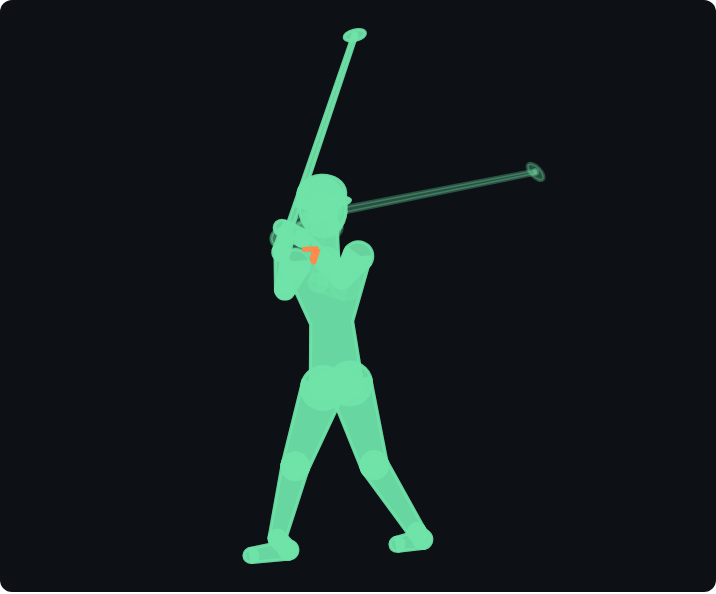
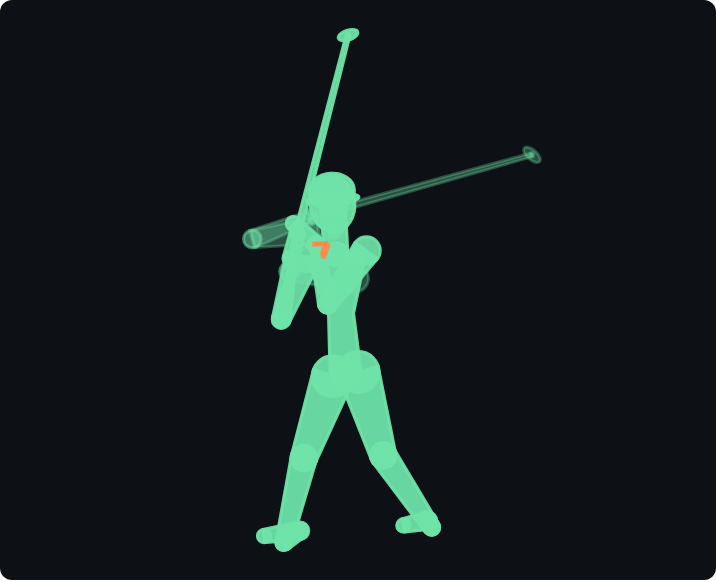
feat(swing3d): show one swing before results and restore report return

Changed region(s): [[0.338, 0.1856, 0.7682, 0.9588], [0.4609, 0.0309, 0.5223, 0.1546]]

diff --git a/swing3d/web/instrument.js b/swing3d/web/instrument.js
@@ -45,13 +45,13 @@
   const flow = document.querySelector(".instrument");
   function step(value) {
     flow.dataset.step = value;
-    byId("flow-step").textContent = value === "guide" ? "촬영 안내" : (value === "busy" ? 2 : value) + " / 5";
+    byId("flow-step").textContent = value === "guide" ? "촬영 안내" : (value === "busy" ? 2 : value === 4 ? 3 : value === 3 ? 4 : value) + " / 5";
     window.scrollTo(0, 0);
   }
   byId("flow-back").onclick = () => {video.pause();pointPlaying=false;step(3);};
-  byId("flow-back").textContent="결과로";
+  byId("flow-back").textContent="결과 보기";
   byId("new-analysis").onclick=()=>{video.pause();pointPlaying=false;step(1);};
-  byId("show-points").onclick=()=>{step(4);updateOverlay();};
+  byId("show-points").onclick=()=>enterPoint();
   const summaryFields = [...summaryPanel.querySelectorAll("textarea")];
   // 네 칸은 글이 잘리지 않을 만큼만 자란다. 넘치면 .summary-fields 가 스크롤한다.
   const fitField = field => {
@@ -360,8 +360,8 @@
       comparison.coaching=coaching;
       MotionCustomer.renderResult(coaching,track,id=>{chooseFinding(id);step(4);updateOverlay();});
       byId('results').hidden=false;
-      step(3);
-      updateOverlay();
+      saveReturnState(track,coaching);
+      enterPoint();
 
     } catch (error) {
       step(csv ? 1 : 2);
@@ -1002,49 +1002,45 @@
     byId("export").hidden = false;
     byId("record").disabled = false;
     byId("record-progress").textContent = "";
-    const reportLink = byId("open-report");
-    reportLink.href = "/report/" + encodeURIComponent(track.track_id)
-      + (coaching?.report_id ? "?coaching=" + coaching.report_id : "");
-    reportLink.onclick = async event => {
-      if (!coaching?.report_id || !evidence) return;
-      event.preventDefault();
-      video.pause();
-      if (video.seeking) await new Promise(resolve => video.addEventListener("seeked", resolve, {once: true}));
-      if (video.readyState < 2) {
-        location.assign(reportLink.href);
-        return;
-      }
-      updateOverlay();
-      const snapshot = document.createElement("canvas");
-      snapshot.width = 960;
-      const height = snapshot.height = Math.round(480 * video.videoHeight / video.videoWidth);
-      const draw = snapshot.getContext("2d");
-      const [x, y, size] = byId("zoom-person").getAttribute("aria-pressed") === "true" ? evidence.overlay_crop : [0, 0, 1];
-      const crop = [x * video.videoWidth, y * video.videoHeight, size * video.videoWidth, size * video.videoHeight];
-      draw.fillStyle = styles.getPropertyValue("--ground").trim();
-      draw.fillRect(0, 0, 960, height);
-      draw.drawImage(video, ...crop, 0, 0, 480, height);
-      draw.drawImage(canvas, ...crop, 0, 0, 480, height);
-      draw.drawImage(alternate, ...crop, 480, 0, 480, height);
-      try {
-        sessionStorage.setItem("motionguard:" + coaching.report_id, JSON.stringify({
-          image: snapshot.toDataURL("image/jpeg", 0.88), factor: Number(factor.value),
-          frame: Math.floor(video.currentTime * evidence.fps + 0.001), label: activeFinding?.label,
-          positive: !!activeFinding?.positive,
-          values: [...byId("compare-values").children].map(item => item.textContent).join(" · "),
-        }));
-      } catch {
-        // The report still has the measured phase stills if session storage is unavailable.
-      }
-      location.assign(reportLink.href);
-    };
+    // The result screen is the only route to a customer report.
+    byId('result-report').onclick=()=>{video.pause();pointPlaying=false;saveReturnState(track,coaching);};
+  }
+
+  function saveReturnState(track,coaching){
+    try{sessionStorage.setItem('motionguard:return',JSON.stringify({track,coaching}));}catch{/* Storage can be disabled or full. Report remains readable. */}
+  }
+  function enterPoint(phase){
+    if(!comparison)return;
+    step(4);
+    const t=comparison.track;
+    seekPoint(t.meta.phase_frames[phase??'address']/t.meta.fps);
+    updateOverlay();
+    if(phase)return;
+    pointOnce=true;pointPlaying=true;lastPointTick=undefined;
+    byId('point-play').textContent='멈춤';
+    if(evidence){video.muted=true;video.play().catch(()=>{pointPlaying=false;byId('point-play').textContent='재생';});}
+  }
+  async function restoreResult(){
+    const id=new URLSearchParams(location.search).get('result');if(!id)return;
+    try{
+      const saved=JSON.parse(sessionStorage.getItem('motionguard:return'));
+      if(saved?.coaching?.report_id!==id)throw Error('missing');
+      const {track,coaching}=saved;
+      // A navigation does not retain the original video. Keep its body coordinates,
+      // never present a blank original-video layer as playable media.
+      if(track.evidence){track.pose_landmarks=track.evidence.frames.slice(track.meta.source_frames[0],track.meta.source_frames[1]+1);delete track.evidence;}
+      evidence=undefined;comparison={track,reference:SwingReference.expand(track),displayed:track.track,options:[]};
+      setupStills(track);await setupFindings(track,coaching);
+      MotionCustomer.renderResult(coaching,track,id=>{chooseFinding(id);enterPoint(coaching.findings.find(i=>i.id===id)?.phase);});
+      byId('results').hidden=false;byId('result-details').hidden=byId('result-actions').hidden=false;step(3);
+    }catch{byId('file-info').textContent='이전 결과를 찾을 수 없습니다. 영상을 다시 선택해 주세요.';}
   }
 
   byId("playback-details").append(byId("result-details"));
 
   byId('guidance-retry').onclick=()=>{byId('quality-guidance').hidden=true;step(1);byId('video').click();};
 
-  let pointPlaying=false,pointTime=0,lastPointTick;
+  let pointPlaying=false,pointTime=0,lastPointTick,pointOnce=false;
   function seekPoint(seconds){
     pointPlaying=false;byId('point-play').textContent='재생';
     if(!comparison)return;
@@ -1064,6 +1060,7 @@
     byId('point-mode').disabled=!evidence;
   }
   byId('point-play').onclick=()=>{
+    pointOnce=false;
     if(evidence){if(video.paused)video.play();else video.pause();pointPlaying=!video.paused;}
     else {pointPlaying=!pointPlaying;if(pointTime>=+byId('point-seek').max)pointTime=+byId('point-seek').min;}
     byId('point-play').textContent=pointPlaying?'멈춤':'재생';lastPointTick=undefined;
@@ -1072,11 +1069,11 @@
   byId('point-mode').onclick=e=>{const original=panes.dataset.original!=='true';panes.dataset.original=String(original);e.currentTarget.textContent=original?'그림 보기':'원본 보기';};
   function pointTick(now){
     if(pointPlaying && comparison){
-      if(evidence){byId('point-seek').value=video.currentTime;}
+      if(evidence){byId('point-seek').value=video.currentTime;if(pointOnce&&video.currentTime>=+byId('point-seek').max){video.pause();pointPlaying=false;byId('point-play').textContent='재생';}}
       else{
         pointTime+=lastPointTick===undefined?0:Math.min(.05,(now-lastPointTick)/1000);
         const t=comparison.track;
-        if(pointTime>+byId('point-seek').max)pointTime=+byId('point-seek').min;
+        if(pointTime>+byId('point-seek').max){if(pointOnce){pointTime=+byId('point-seek').max;pointPlaying=false;byId('point-play').textContent='재생';}else pointTime=+byId('point-seek').min;}
         byId('point-seek').value=pointTime;
         updateValues(Math.max(0,Math.min(t.track.length-1,Math.floor(pointTime*t.meta.fps)-t.meta.source_frames[0])));paintTrackPose();
       }
@@ -1235,4 +1232,5 @@
     toggle.setAttribute("aria-pressed", String(toggle.getAttribute("aria-pressed") !== "true"));
     updateOverlay();
   });
+  restoreResult();
 })();

diff --git a/swing3d/web/index.html b/swing3d/web/index.html
@@ -70,7 +70,7 @@
     <p id="profile-message" class="note"></p>
     <div id="result-items"></div>
     <section id="history-area" class="grow"><div class="history-heading"><h3>회차별 기록</h3><button id="delete-profile">기록 삭제</button></div><div id="history-chart" class="grow"></div><p id="history-note" class="note"></p><div id="history-comparison" hidden></div></section>
-    <footer class="flow-foot"><button id="show-points" class="primary">개선 포인트 보기</button><a id="result-report" class="button secondary">리포트 보기</a></footer>
+    <footer class="flow-foot"><button id="show-points" class="primary">스윙 다시 보기</button><a id="result-report" class="button secondary">리포트 보기</a></footer>
   </section>
   <section id="quality-guidance" class="flow-body" hidden>
     <h2>촬영 위치를 확인해 주세요</h2><p id="guidance-message" role="status"></p>
@@ -154,7 +154,7 @@
     </div>
   </section>
   </details>
-  <footer class="flow-foot" id="result-actions" hidden><button id="flow-back">다시 상담</button><a class="button" id="open-report">리포트 보기</a></footer>
+  <footer class="flow-foot" id="result-actions" hidden><button id="flow-back" class="primary">결과 보기</button></footer>
 </main>
 <script type="importmap">{"imports":{"three":"/vendor/three/three.module.js","three/addons/":"/vendor/three/addons/"}}</script>
 <script src="/reference.js"></script>

diff --git a/swing3d/web/report.html b/swing3d/web/report.html
@@ -10,5 +10,5 @@
 <section><h2>연습 영상</h2><div id="report-videos"></div></section>
 <p id="report-goal" class="note"></p><footer class="colophon"><span id="report-mode"></span><br>이 기기에서 처리한 계측과 승인한 상담 요약을 사용했습니다. 얼굴 좌표는 만들지 않았습니다.</footer>
 </div><section class="report-appendix"><h2>부록 · 전체 수치표</h2><p id="appendix-facts" class="note"></p><div id="appendix-approved"></div><h3>재지 못한 것</h3><p id="appendix-excluded" class="note"></p><table id="report-angles"><thead><tr><th>국면</th><th>항목</th><th>나</th><th>교본</th><th>점수</th><th>판정</th></tr></thead><tbody></tbody></table></section></div>
-<footer class="report-foot"><button id="print-report" disabled>PDF로 저장</button><a href="/">다시 분석</a></footer></main>
+<footer class="report-foot"><button id="print-report" disabled>PDF로 저장</button><a id="return-result">결과로 돌아가기</a><a href="/">다시 분석</a></footer></main>
 <script src="/customer-ui.js"></script><script src="/drills.js"></script><script src="/report.js" defer></script></body></html>

diff --git a/swing3d/web/report.js b/swing3d/web/report.js
@@ -7,6 +7,7 @@
   if(!/^[a-f0-9]{64}$/.test(id)||!/^[a-f0-9]{32}$/.test(reportId??''))throw Error('리포트 주소를 확인해 주세요.');
   const response=await fetch('/api/coaching/report/'+reportId);if(!response.ok)throw Error('리포트를 찾을 수 없습니다.');const doc=await response.json();
   if(doc.track_id!==id)throw Error('분석과 리포트가 일치하지 않습니다.');
+  $('return-result').href='/?result='+reportId;
   const report=doc.customer_report,items=improvements(doc),score=doc.score;
   $('report-round').textContent=String(doc.session??1).padStart(2,'0')+'회';$('report-date').textContent=(report.issued_at??'').slice(0,10);
   $('report-total').textContent=score.total===null?'—':Math.round(score.total);

diff --git a/swing3d/MOTIONGUARD_BUILD.md b/swing3d/MOTIONGUARD_BUILD.md
@@ -711,3 +711,29 @@ h1_history  h2_report_compare                             (390×844)
 | 대화 목록 | 본문의 20% 이상 |
 | 고객 화면의 좌표값 | `0.` 으로 시작하는 수치가 **하나도 없을 것** |
 | 점수 옆 판정 문구 | 비어 있지 않을 것 |
+
+# 단계 11 — 모바일 흐름 후속 작업 (2026-11-19)
+
+사용자가 승인한 첨부 `CODEX_NEXT.md`에 따라 `fix/swing3d-mobile-report`의
+1532363에서 시작했다. 이 커밋의 정본에는 10-G·10-H 본문이 없고 10-I만 있다.
+10-I의 겹침 방지, 사람 비례, 좌표값 숨김, plausible 안전망을 유지한다.
+
+## 11-A — 2D 먼저, 결과 다음, 리포트 마지막
+
+| 항목 | 기준 | 실측 |
+|---|---|---|
+| 분석 완료 후 처음 보이는 화면 | #overlay, #results 아님 | 두 폭 모두 overlay 표시/results 숨김 |
+| 2D 진입 후 | 2초 안 재생 시작 | 250ms 사이 모바일 f81→98, PC f82→99 |
+| 2D → 결과 | 결과 보기 한 번 | 두 폭 모두 통과 |
+| 결과 → 2D | 스윙 다시 보기 한 번 | 두 폭 모두 통과 |
+| 2D 화면 리포트 링크 | 0개 | 두 폭 모두 0개 |
+| 리포트 진입 | 결과 화면 경유 | 결과 화면에만 링크 1개 |
+| 리포트 → 결과 | 한 번으로 복귀 | 같은 탭 sessionStorage 결과 복원, 두 폭 통과 |
+
+한 번 재생 후 f172에서 정지함을 확인했다. report 복귀 시 원본 영상은
+재보관하지 않고 신체 좌표로 결과/2D를 복원한다. 저장소 접근이 막히면 복귀 실패를
+명시하고 영상 재선택을 안내한다. `mockups/11a-flow.json`, `11a_*_point.png` 참조.
+
+원문 테스트 명령의 Playwright 기본 실행 파일이 이 환경에 없어 최초 실행은
+49 passed / 1 failed였다. 실제 설치된 `/usr/bin/chromium`을 CHROMIUM_PATH로
+지정한 동일 pytest는 **50 passed, 13 subtests passed** (deprecation 경고 2개).
